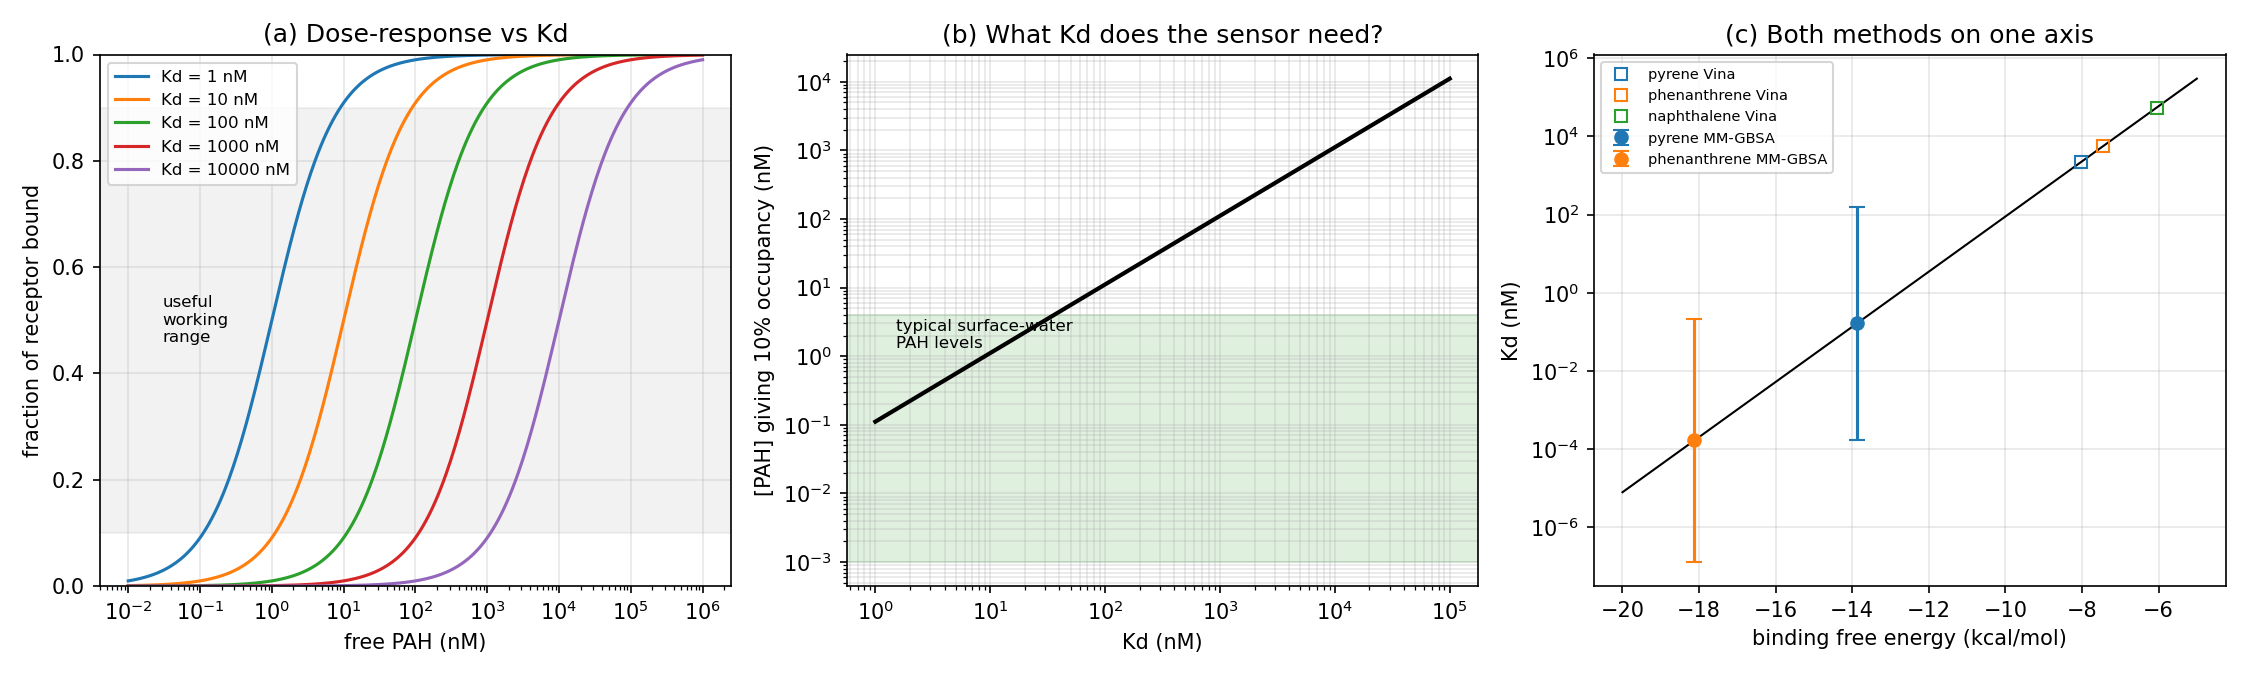
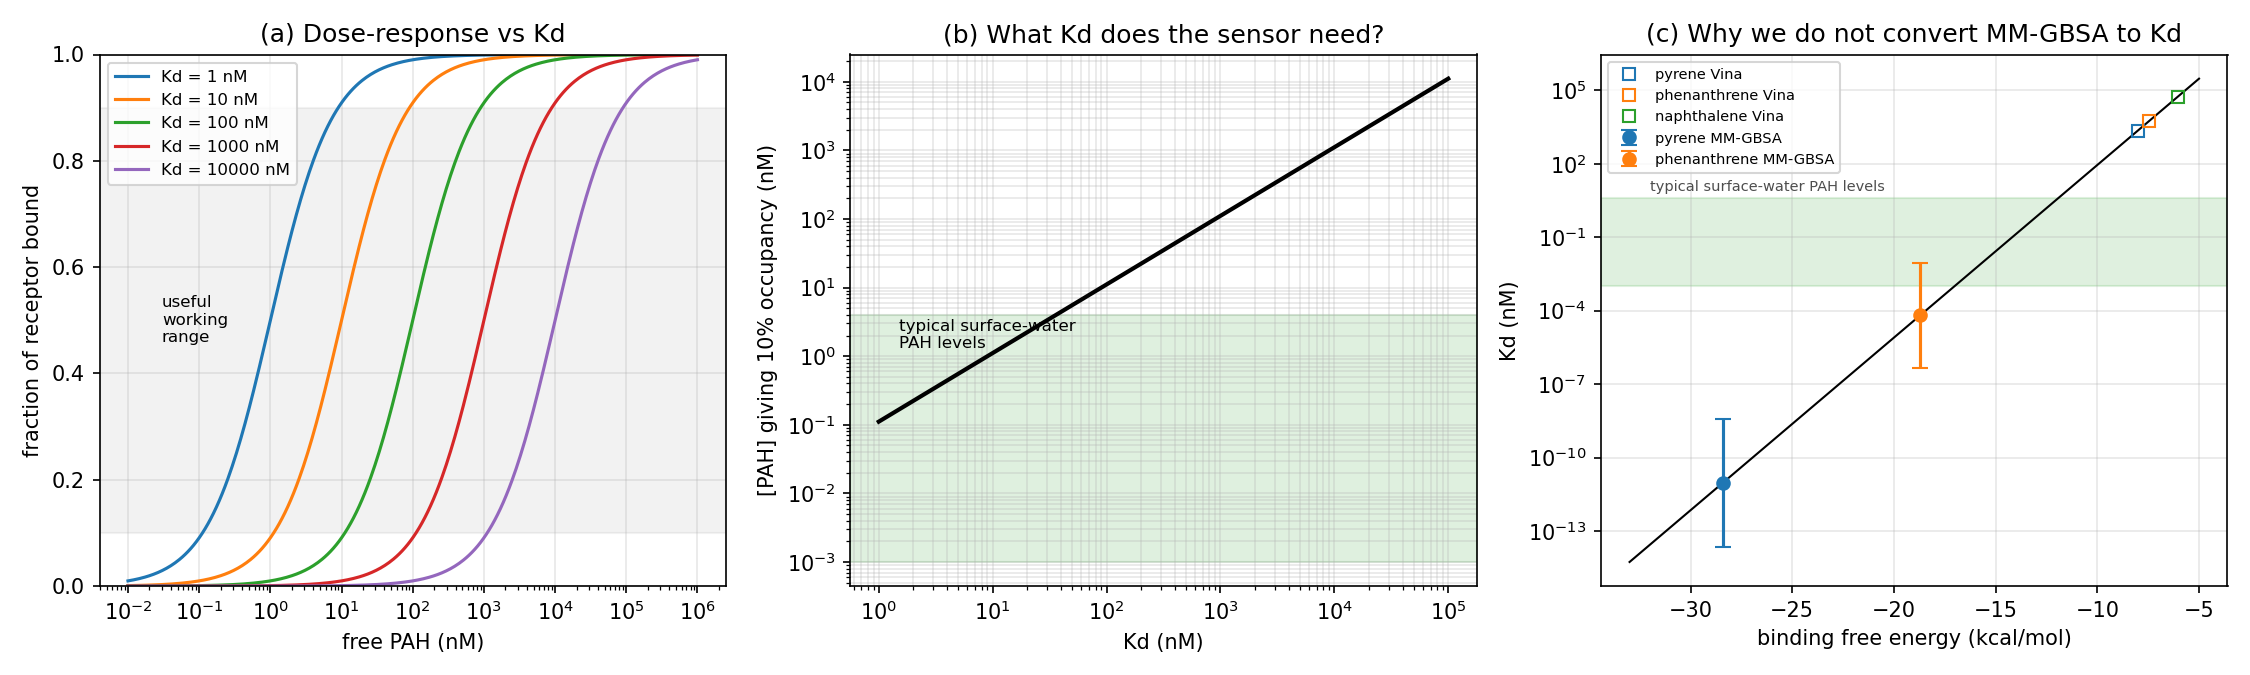
tool/autodock-vina: rebuild model 1 and 3 figures on the replicate-2 values

diff --git a/tools/autodock-vina/md/models/model3_competition.py b/tools/autodock-vina/md/models/model3_competition.py
@@ -6,10 +6,12 @@ Our MM-GBSA Kd values (sub-nM to sub-pM) are too tight to use directly here:
 they saturate the receptor in every scenario and the model becomes degenerate.
 Absolute Kd are therefore sampled from a plausible range that respects a ranking.
 
-The ranking used is Vina's. Recomputed over windows where each ligand is actually
-in pocket 4, MM-GBSA cannot separate pyrene from phenanthrene (-16.64 +/- 5.46 vs
--17.38 +/- 4.09, about 0.7 sigma), so the MM-GBSA order below is kept only as a
-sensitivity check, not as a competing ranking. See md/analysis/README.md.
+The ranking used is Vina's. MM-GBSA over replicate 2, where both ligands stayed
+in pocket 4 for the whole run, gives pyrene -28.43 and phenanthrene -18.71, which
+reproduces the Vina order, so the two methods now agree. The alternative ranking
+kept below is the withdrawn replicate-1 one, computed on frames from after each
+ligand had left the pocket. It is retained only to show what that error would have
+changed. See md/analysis/README.md.
 
 Output: model3_competition.png
 """
@@ -19,10 +21,10 @@ import os; os.chdir(os.path.dirname(os.path.abspath(__file__)))  # write figures
 
 rng = np.random.default_rng(42)
 
-# two orders are tested. the MM-GBSA one compares two different sites
-# (each ligand left pocket 4 before its MM-GBSA window), so it is not
-# like-for-like and is kept only as a sensitivity check.
-RANKING_MMGBSA = ["phenanthrene", "pyrene", "fluoranthene", "anthracene", "naphthalene"]
+# two orders are tested. the first is the withdrawn replicate-1 order,
+# computed on post-dissociation frames; it is kept only to show what
+# trusting it would have changed.
+RANKING_REP1_WITHDRAWN = ["phenanthrene", "pyrene", "fluoranthene", "anthracene", "naphthalene"]
 # fluoranthene -8.095 and pyrene -8.021 differ by less than Vina resolves; order as scored
 RANKING_VINA = ["fluoranthene", "pyrene", "phenanthrene", "anthracene", "naphthalene"]
 
@@ -43,14 +45,14 @@ def occupancy(kd, conc):
     denom = 1.0 + sum(terms.values())
     return {l: t / denom for l, t in terms.items()}
 
-ligands = RANKING_MMGBSA + ["glucose"]
+ligands = RANKING_REP1_WITHDRAWN + ["glucose"]
 
 print("Scenario: polluted site. Concentrations (nM):")
 for l, c in CONC.items():
     print(f"  {l:<15}{c:>8g}")
 
 print("\nOccupancy under each ranking:\n")
-for name, ranking in [("MM-GBSA order", RANKING_MMGBSA), ("Vina order", RANKING_VINA)]:
+for name, ranking in [("replicate-1 order (withdrawn)", RANKING_REP1_WITHDRAWN), ("Vina order", RANKING_VINA)]:
     kd = build_kd(ranking, KD_LADDER)
     th = occupancy(kd, CONC)
     total = sum(th.values())
@@ -62,15 +64,15 @@ for name, ranking in [("MM-GBSA order", RANKING_MMGBSA), ("Vina order", RANKING_
 
 fig, ax = plt.subplots(1, 3, figsize=(15, 4.5))
 
-labels = ["MM-GBSA\norder", "Vina\norder"]
+labels = ["replicate-1 order\n(withdrawn)", "Vina order\n(= replicate-2 MM-GBSA)"]
 bottom = np.zeros(2)
 for lig in ligands:
     vals = [occupancy(build_kd(r, KD_LADDER), CONC).get(lig, 0)
-            for r in (RANKING_MMGBSA, RANKING_VINA)]
+            for r in (RANKING_REP1_WITHDRAWN, RANKING_VINA)]
     ax[0].bar(labels, vals, bottom=bottom, label=lig)
     bottom += np.array(vals)
 ax[0].set(ylabel="receptor occupancy",
-          title="(a) Does the ranking change who dominates?")
+          title="(a) What the withdrawn ranking would have changed")
 ax[0].legend(fontsize=7)
 
 kd = build_kd(RANKING_VINA, KD_LADDER)

diff --git a/tools/autodock-vina/md/models/model1_binding.py b/tools/autodock-vina/md/models/model1_binding.py
@@ -2,11 +2,12 @@
 Model 1: ligand-receptor binding for PahP + PAHs
 iGEM Saarland 2026
 
-Input:  MM-GBSA binding free energies from 100 ns MD (this work).
-        Both ligands dissociate from pocket 4 during the run, so these are
-        post-migration values for two different sites. Illustrative only -
-        not pocket-4 affinities and not comparable between ligands.
-        See md/analysis/README.md.
+Input:  MM-GBSA binding free energies from replicate 2 of the 100 ns MD
+        (this work), the one run in which both ligands stayed in pocket 4
+        for the whole trajectory. Comparative only: MM-GBSA omits
+        configurational entropy, so the absolute values are far too
+        favourable and must not be converted into a Kd. Panel (c) shows
+        exactly how far off they are. See md/analysis/README.md.
 Output: model1_binding.png
 """
 import numpy as np
@@ -15,8 +16,8 @@ import os; os.chdir(os.path.dirname(os.path.abspath(__file__)))  # write figures
 
 RT = 0.001987 * 310.0
 
-# illustrative only - see header
-MMGBSA = {"pyrene": (-13.88, 4.21), "phenanthrene": (-18.12, 4.41)}
+# replicate 2, both ligands bound throughout - see header
+MMGBSA = {"pyrene": (-28.43, 3.73), "phenanthrene": (-18.71, 3.06)}
 VINA = {"benzo_a_pyrene": -9.520, "fluoranthene": -8.095, "pyrene": -8.021,
         "phenanthrene": -7.448, "anthracene": -7.363, "naphthalene": -6.053,
         "glucose_NEGCTRL": -5.383}
@@ -59,7 +60,7 @@ ax[1].set(xlabel="Kd (nM)", ylabel="[PAH] giving 10% occupancy (nM)",
           title="(b) What Kd does the sensor need?")
 ax[1].grid(alpha=0.3, which="both")
 
-dg_axis = np.linspace(-20, -5, 200)
+dg_axis = np.linspace(-33, -5, 200)
 ax[2].semilogy(dg_axis, kd_nM(dg_axis), "k-", lw=1)
 for lig, colour in [("pyrene", "tab:blue"), ("phenanthrene", "tab:orange")]:
     d, s = MMGBSA[lig]
@@ -70,8 +71,10 @@ for lig, colour in [("pyrene", "tab:blue"), ("phenanthrene", "tab:orange"),
                     ("naphthalene", "tab:green")]:
     ax[2].plot(VINA[lig], kd_nM(VINA[lig]), "s", mfc="none", color=colour,
                label=f"{lig} Vina")
+ax[2].axhspan(1e-3, 4, color="tab:green", alpha=0.15)
+ax[2].text(-32, 8, "typical surface-water PAH levels", fontsize=7, color="0.3")
 ax[2].set(xlabel="binding free energy (kcal/mol)", ylabel="Kd (nM)",
-          title="(c) Both methods on one axis")
+          title="(c) Why we do not convert MM-GBSA to Kd")
 ax[2].legend(fontsize=7)
 ax[2].grid(alpha=0.3)
 
